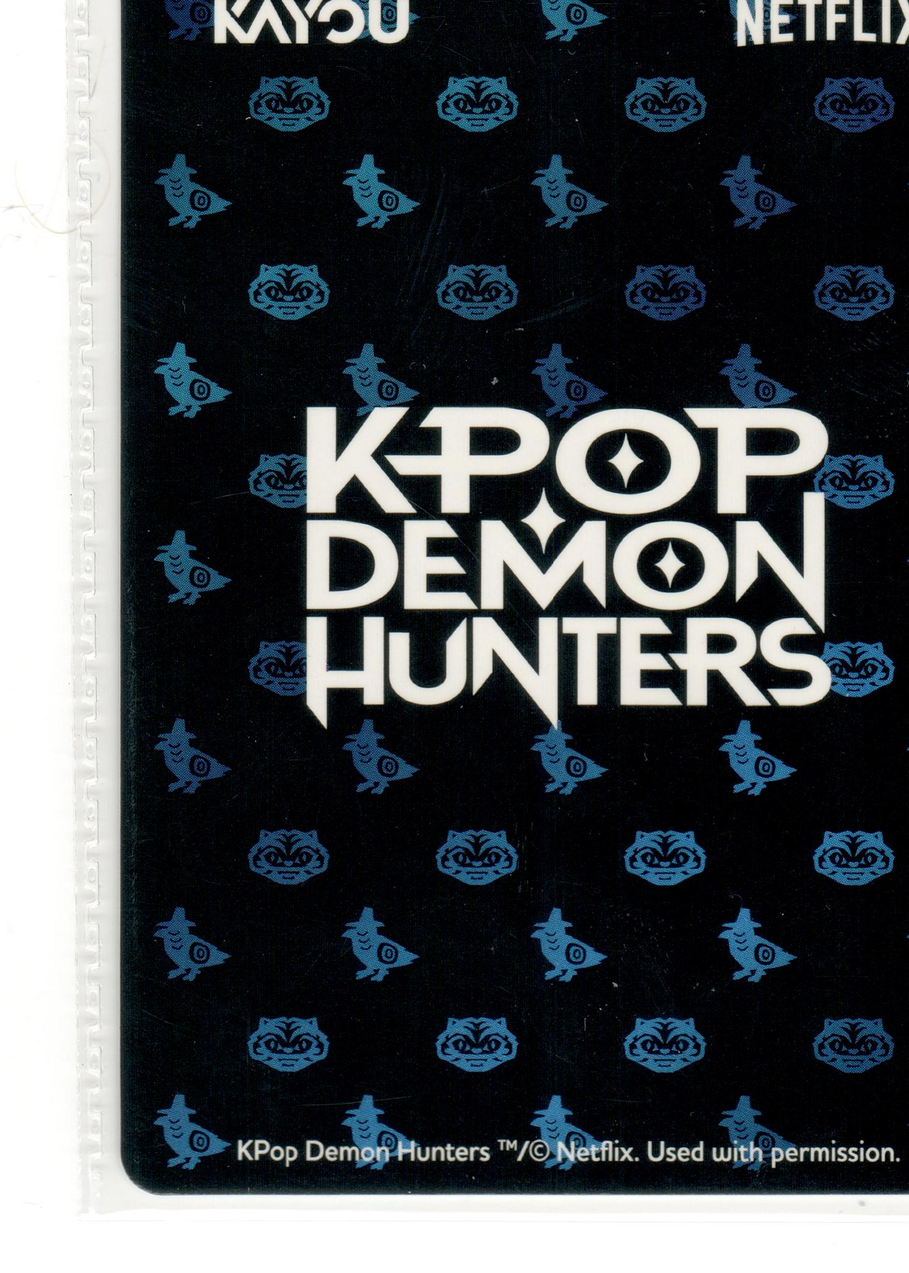
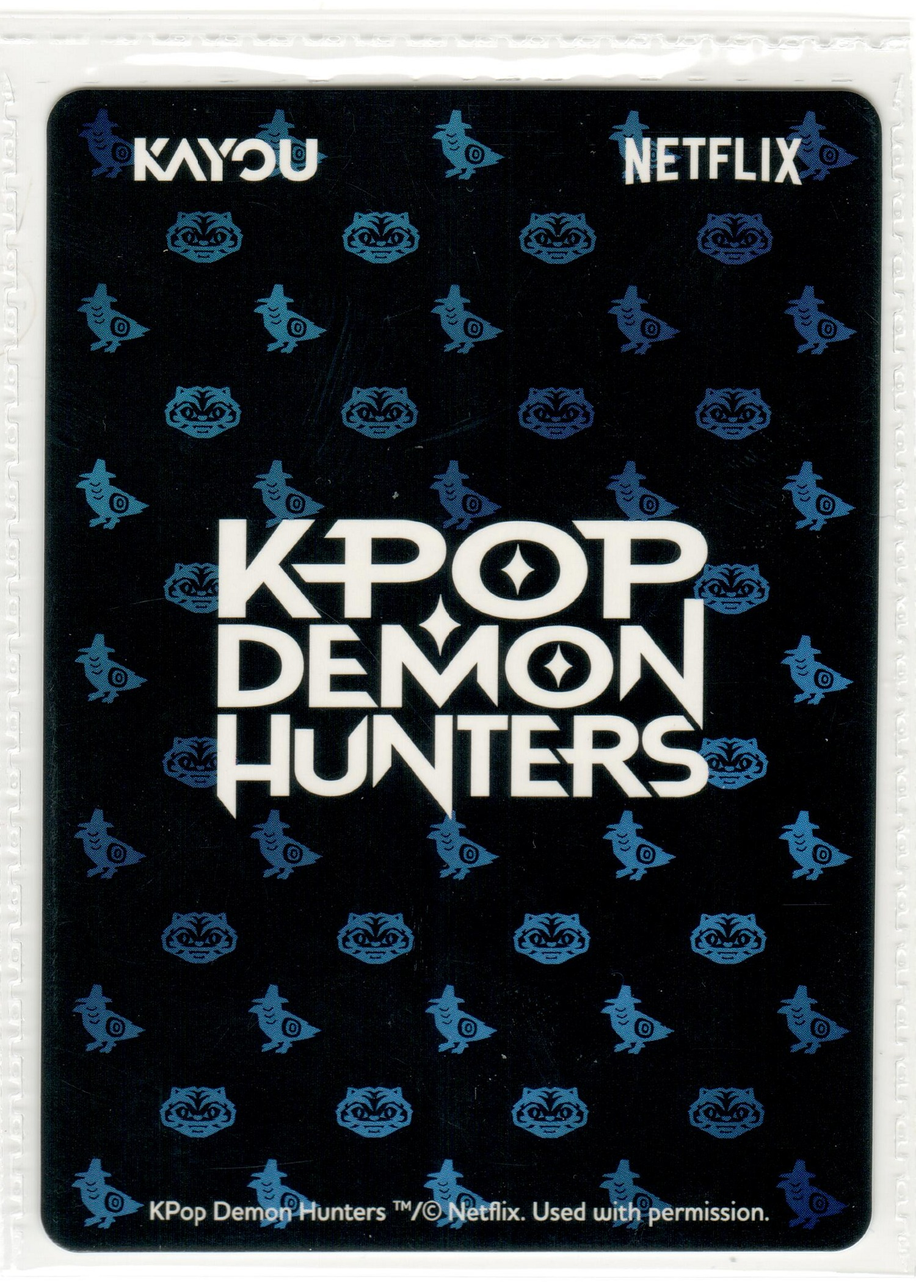
Center KPDH convention promo scans
Extend measured perspective correction to both sides of PR-01 and PR-02 so their card and sleeve boundaries remain fully visible.\n\nCo-Authored-By: OpenAI Codex <noreply@openai.com>

diff --git a/kpdh-binder/scripts/build_promo_scans.py b/kpdh-binder/scripts/build_promo_scans.py
@@ -79,6 +79,10 @@ ROTATIONS = {
 # rotation followed by a center crop, these measurements correct perspective and
 # retain every sleeve edge even when a card was not centered in its original box.
 QUADS = {
+    ("scan0325", "kpdh01-pr-01"): (675, 555, 675, 2600, 2080, 2590, 2075, 550),
+    ("scan0325", "kpdh01-pr-02"): (2490, 280, 2485, 2510, 4070, 2495, 4050, 270),
+    ("scan0326", "kpdh01-pr-01"): (700, 255, 700, 2310, 2155, 2300, 2150, 250),
+    ("scan0326", "kpdh01-pr-02"): (2650, 180, 2650, 2370, 4210, 2380, 4200, 185),
     ("scan0329", "kpdh01-pr1-01"): (2920, 270, 2910, 2470, 4500, 2510, 4510, 300),
     ("scan0329", "kpdh01-pr1-02"): (800, 2140, 900, 4500, 2580, 4380, 2490, 2080),
     ("scan0329", "kpdh01-pr1-03"): (2780, 3480, 2770, 5750, 4430, 5780, 4430, 3500),
